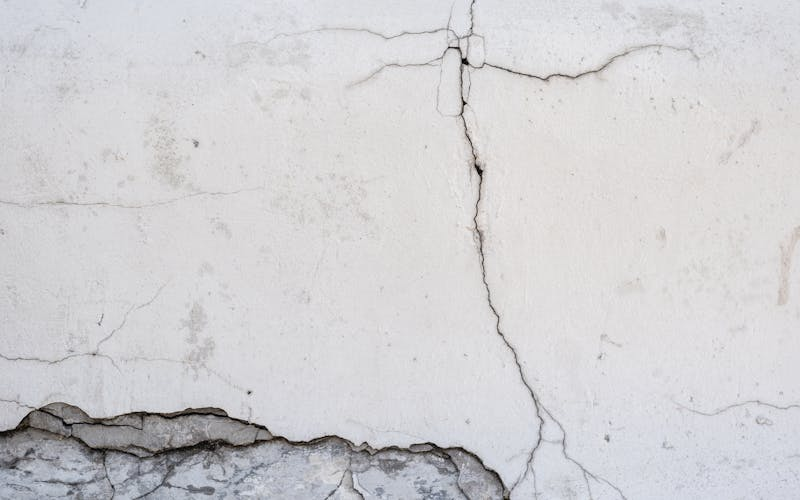
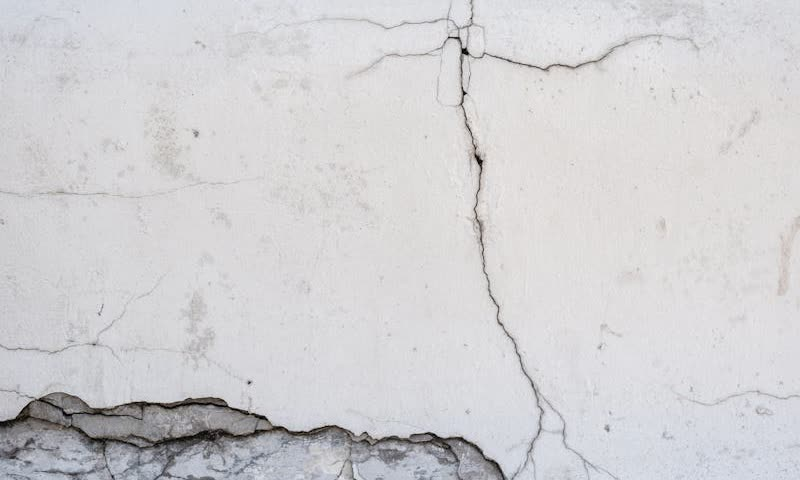
Standardize service card images to 800×480 (5:3), no cropping
- Resize all 5 service images to exactly 800×480:
  - calcul-structure.jpg + attestation-at2.jpg: already 800×480, unchanged
  - diagnostic-visuel.jpg: center-crop 800×500 → 800×480 (10px each side)
  - diagnostic-sismique.jpg: scale-fit + pad #f5f5f5 (1191×780 → 800×480)
  - attestation-parasismique.jpg: scale-fit + pad #f5f5f5 (portrait → 800×480)
- CSS: change aspect-ratio 400/320 (5:4) → 5/3 to match new image ratio
- CSS: remove .svc-img--doc and .svc-img--fem special classes (no longer
  needed — all images same dimensions, object-fit:cover shows full image)
- HTML: remove svc-img--doc and svc-img--fem class references

diff --git a/index.html b/index.html
@@ -591,7 +591,7 @@
 
         <!-- Row 1 : 3 cards (span 2 each in 6-col grid) -->
         <article class="svc-card">
-          <div class="svc-img svc-img--fem">
+          <div class="svc-img">
             <img src="images/services/calcul-structure.jpg" alt="Modèle éléments finis 3D d'un bâtiment avec carte de déplacements sismiques" width="400" height="240" loading="lazy"/>
           </div>
           <div class="svc-num" aria-hidden="true">01</div>
@@ -640,7 +640,7 @@
         </article>
 
         <article class="svc-card">
-          <div class="svc-img svc-img--doc">
+          <div class="svc-img">
             <img src="images/services/diagnostic-sismique.jpg" alt="Spectre réglementaire EC8 avec courbes d'accélération et tableaux de paramètres sismiques" width="400" height="240" loading="lazy"/>
           </div>
           <div class="svc-num" aria-hidden="true">03</div>
@@ -663,7 +663,7 @@
 
         <!-- Row 2 : 2 cards (span 3 each in 6-col grid) -->
         <article class="svc-card svc-wide">
-          <div class="svc-img svc-img--doc">
+          <div class="svc-img">
             <img src="images/services/attestation-parasismique.jpg" alt="Formulaire officiel d'attestation parasismique pour dépôt de permis de construire" width="400" height="240" loading="lazy"/>
           </div>
           <div class="svc-num" aria-hidden="true">04</div>

diff --git a/css/style.css b/css/style.css
@@ -1050,8 +1050,7 @@ body,
   overflow: hidden;
   border-radius: 8px 8px 0 0;
   border-bottom: 1px solid var(--border);
-  background: var(--bg);
-  aspect-ratio: 400 / 320;
+  aspect-ratio: 5 / 3;
   flex-shrink: 0;
 }
 .svc-img img {
@@ -1063,21 +1062,6 @@ body,
 }
 .svc-card:hover .svc-img img {
   transform: scale(1.03);
-}
-/* Images de type document (fond blanc, contenu plein cadre) */
-.svc-img--doc {
-  background: #f8f8f8;
-}
-.svc-img--doc img {
-  object-fit: contain;
-  object-position: center top;
-}
-.svc-card:hover .svc-img--doc img {
-  transform: scale(1.02);
-}
-/* Modèle FEM 3D : focus sur le centre du mesh */
-.svc-img--fem img {
-  object-position: center center;
 }
 .svc-num {
   font-family: var(--ff-mono);
